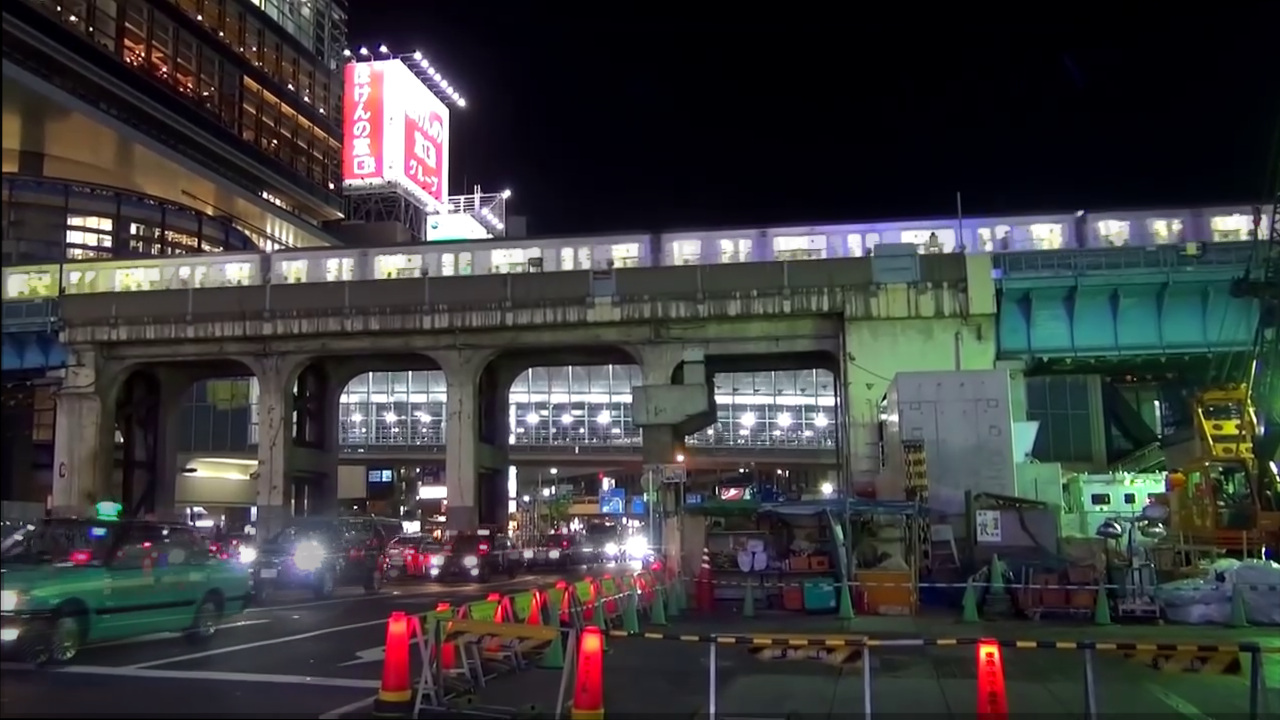
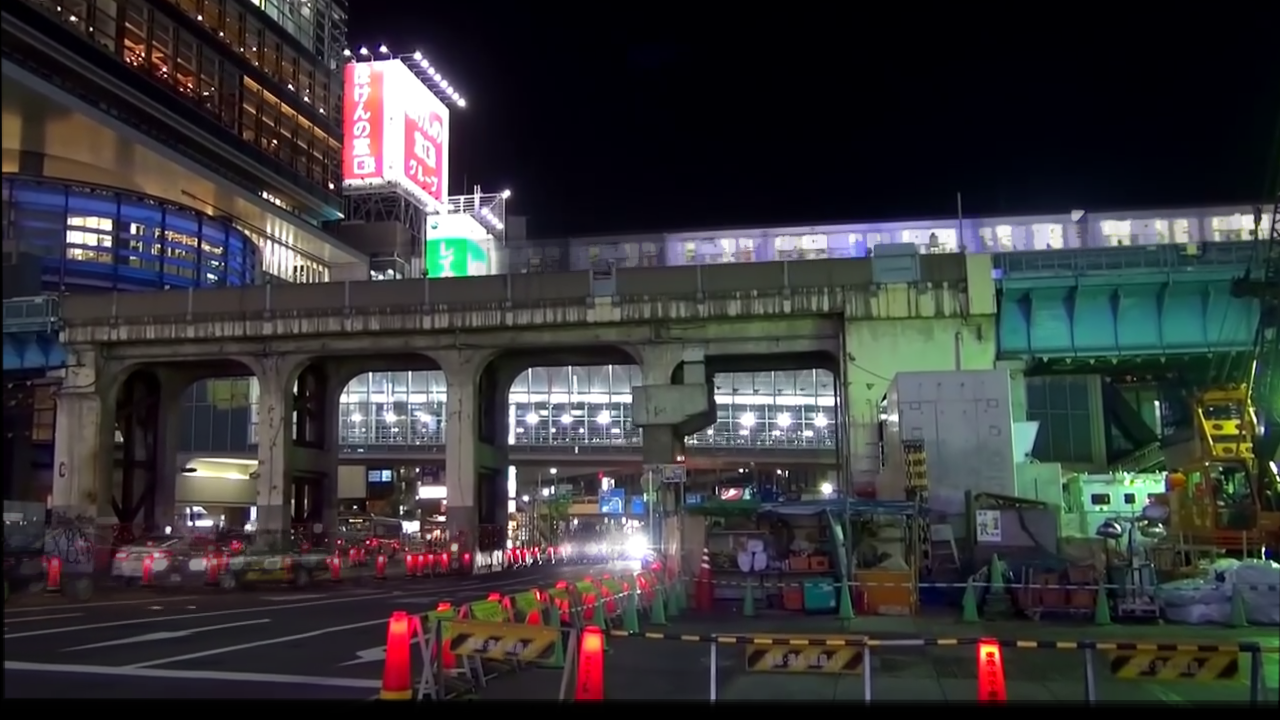
Fixed a problem in extended exposure weighting function (the fraction was in the wrong way)

diff --git a/extended_exposure.py b/extended_exposure.py
@@ -2,10 +2,10 @@ import cv2
 import numpy as np
 import math
 
-# cap = cv2.VideoCapture('tokyo23162321.mp4')
+cap = cv2.VideoCapture('tokyo23162321.mp4')
 # cap = cv2.VideoCapture('tube.mp4')
 # cap = cv2.VideoCapture('road.mp4')
-cap = cv2.VideoCapture('stairs.mp4')
+# cap = cv2.VideoCapture('stairs.mp4')
 
 if not cap.isOpened():
     print("Error opening video stream or file")
@@ -64,7 +64,7 @@ while cap.isOpened():
 
             cv2.imshow("warped", frame)
 
-            weight = 0.8 ** (30 * (frameCount-math.floor(frameRate / 2))/(frameCount - frameID))
+            weight = 0.8 ** (30 * (frameCount - frameID) / (frameCount-math.floor(frameRate / 2)))
 
             for x in range(width):
                 for y in range(height):
@@ -87,10 +87,10 @@ for x in range(width):
         result[x, y, 1] = result[x, y, 1] / sum_of_weights
         result[x, y, 2] = result[x, y, 2] / sum_of_weights
 
-# cv2.imwrite('extended_exposure_tokyo.png', result)
+cv2.imwrite('extended_exposure_tokyo.png', result)
 # cv2.imwrite('extended_exposure_tube.png', result)
 # cv2.imwrite('extended_exposure_road.png', result)
-cv2.imwrite('extended_exposure_stairs.png', result)
+# cv2.imwrite('extended_exposure_stairs.png', result)
 
 cap.release()
 cv2.destroyAllWindows()
